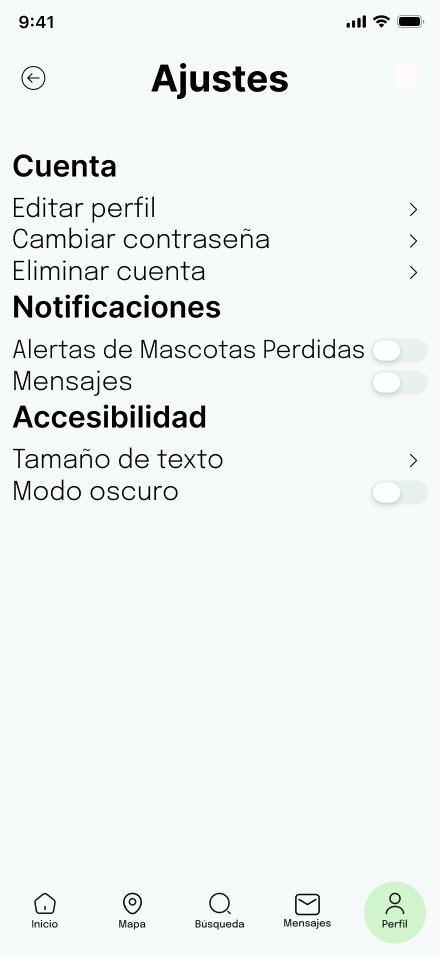
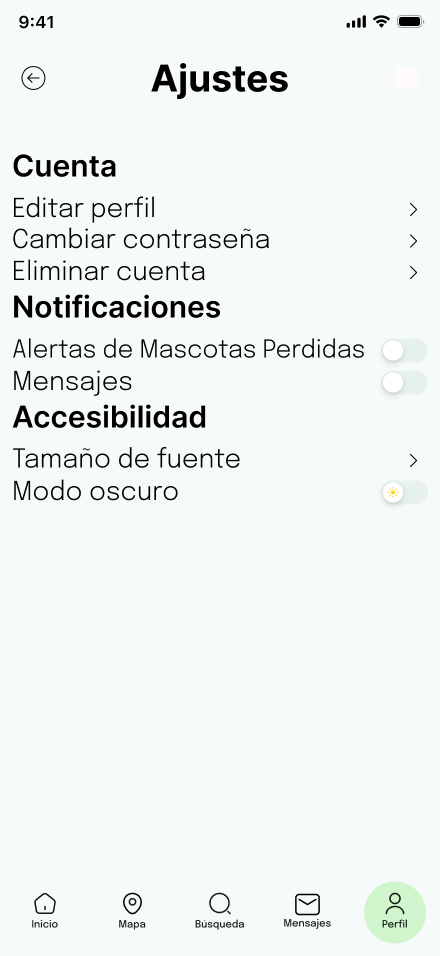
Update

diff --git a/README.md b/README.md
@@ -137,15 +137,13 @@ The main changes implemented in this first set of mockups, compared to the initi
 - Loading Screen: A dedicated loading screen was designed to provide a smoother experience while data is being retrieved.
 - Additional Views: Complementary screens not detailed in the initial wireframes (e.g., success/error states or simplified onboarding) were created to ensure a complete user experience (UX) and guide the user through all application flows.
 
-1. Principal Views:
+#### Principal Views:
 
 ![home](assets/mockups/version-1/home.png)
 
 ![login](assets/mockups/version-1/login.png)
 
 ![map](assets/mockups/version-1/map.png)
-
-![messages](assets/mockups/version-1/messages.png)
 
 ![profile](assets/mockups/version-1/profile.png)
 
@@ -154,6 +152,23 @@ The main changes implemented in this first set of mockups, compared to the initi
 ![animal-details](assets/mockups/version-1/animal-details.png)
 
 #### 9.2 Updated Version:
+
+This updated version reflects key refinements based on the Heuristic Evaluation and the goal of optimizing core user flows. The primary changes focus on clarity, visual consistency, and enhanced functionality for the user:
+- Home Screen Redesign: The initial Home screen was restructured, incorporating the welcoming text and primary calls-to-action previously located on the Landing screen to improve user onboarding and immediate task access.
+- Navigation Bar Refinement: The global navigation bar was redesigned and standardized to ensure consistency across all primary views, improving orientation and access to key features like Map, Search, and Profile.
+- Report Map Functionality: Significant detail was added to the Report Map, including the integration of Priority Tags on pet report markers. This enhancement improves the deployment of report details and allows users to quickly assess the urgency of a lost pet situation.
+- Color Standardization: The application's color usage was standardized across all screens to improve visual consistency and reinforce the brand identity defined in the design system.
+- New Settings View: A dedicated, comprehensive Settings view was designed (as discussed previously) to offer users centralized control over their account, notifications, and application preferences.
+
+#### Principal Views:
+
+![home](assets/mockups/version-2/home.png)
+
+![map](assets/mockups/version-2/map.png)
+
+![report](assets/mockups/version-2/report.png)
+
+![search](assets/mockups/version-2/search.png)
 
 ---
 
@@ -172,6 +187,10 @@ The top problems identified by the heuristic evaluation were primarily focused o
 5. Missing Show/Hide Password Toggle: Users could not easily review their entered password for correctness.
 
 ##### Modifications Implemented:
+
+The register screen was modified to enhance user registration, directly addressing the clarity and security issues identified in the heuristic evaluation.
+
+![register](assets/mockups/version-2/register.png)
 
 #### 10.2 SUS Evaluation Results:
 
